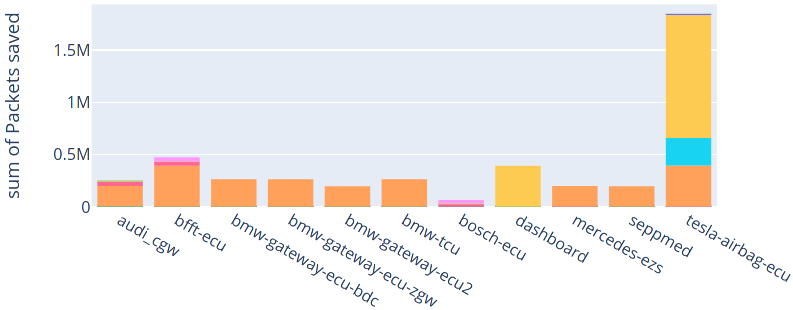
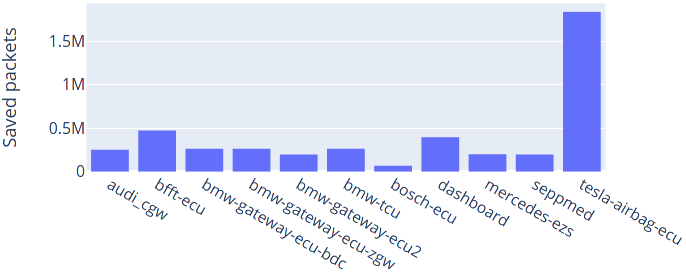
Simplify picture (saved with serviceNotSupported)

Changed region(s): [[0.0612, 0.0, 1.0, 0.9927], [0.0, 0.0292, 0.0306, 0.6423]]

diff --git a/chapters/5_approaches.tex b/chapters/5_approaches.tex
@@ -319,7 +319,7 @@ In contrast to the previous approaches, this one is not applied to an enumerator
 \begin{figure}[h]
     \centering
     \includegraphics[width=0.8\textwidth]{serviceNotSupported-savings}
-    \caption{Saved number of requests with this approach (approx). Each color is an enumerator.}
+    \caption{Saved number of requests with this approach (approx).}
     \label{fig:serviceNotSupported-savings}
 \end{figure}
 
